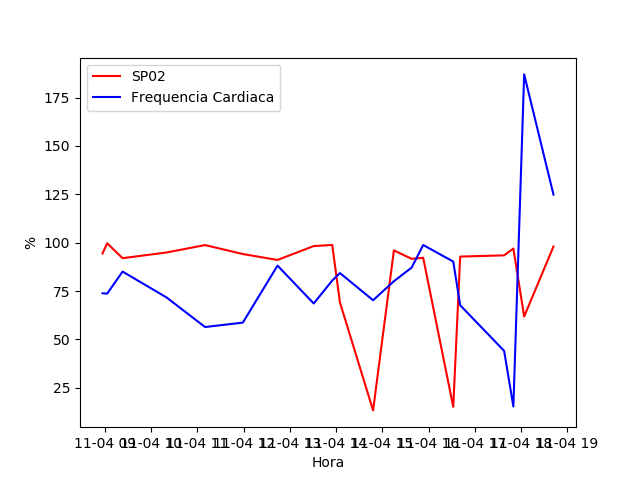
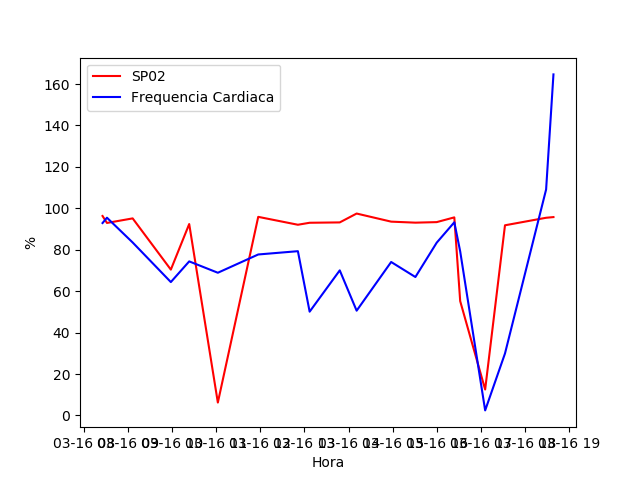
salvando dados da SP02 no banco de dados

diff --git a/utils/SP02.py b/utils/SP02.py
@@ -3,6 +3,7 @@ import random
 from datetime import datetime, timedelta, time
 import matplotlib.pyplot as plt
 import pandas as pd
+import mysql.connector
 
 def FrequenciaCardiaca(qtValores):
     normais = int(qtValores * 0.8)
@@ -20,12 +21,21 @@ def FrequenciaCardiaca(qtValores):
 
 
 def SP02(qtValores, minMinutos, MaxMinutos):
+    database = mysql.connector.connect(host="localhost", user="root", password="", database = "iomt")
+    sql = "INSERT INTO dadoscoletados (usuario, valor1, valor2, dataHora, tipo) VALUES (%s, %s, %s, %s, %s)"
+
     normais = int(qtValores * 0.8)
     anormais = int(qtValores * 0.2)
 
     minutes = 0
     today = datetime.today()
-    date = datetime(today.year, today.month, today.day, 8, 30, 0)
+    mes = random.randint(1, 12)
+    dia = random.randint(1, 30)
+
+    if (mes == 2 and dia >= 28):
+        dia = 28
+
+    date = datetime(today.year, mes, dia, random.randint(6, 10), random.randint(0, 59), 0)
 
     # Gerando os valores normais
     valoresNormais = np.random.uniform(90, 100, normais)
@@ -52,8 +62,17 @@ def SP02(qtValores, minMinutos, MaxMinutos):
 
         dataPlot.append(tuple((dateTime, valores[i], frequenciaCardiaca[i])))
 
-    df = pd.DataFrame(dataPlot, columns=['Data', 'SP02', 'FrequenciaCardiaca'])
+        cursor = database.cursor()
+        val = (4, valores[i], frequenciaCardiaca[i], dateTime, "SP02")
+        cursor.execute(sql, val)
 
+        database.commit()
+        cursor.close()
+
+
+    database.close()
+
+    df = pd.DataFrame(dataPlot, columns=['Data', 'SP02', 'FrequenciaCardiaca'])
     plt.plot(df.Data, df.SP02, label='SP02', color = 'red')
     plt.plot(df.Data, df.FrequenciaCardiaca, label='Frequencia Cardiaca', color = 'blue')
 

diff --git a/utils/TC.py b/utils/TC.py
@@ -12,7 +12,13 @@ def TemperaturaCorporal(qtValores, minMinutos, MaxMinutos):
 
     minutes = 0
     today = datetime.today()
-    date = datetime(today.year, today.month, today.day, random.randint(0, 10), random.randint(0, 59), 0)
+    mes = random.randint(1, 12)
+    dia = random.randint(1, 30)
+
+    if (mes == 2 and dia >= 28):
+        dia = 28
+
+    date = datetime(today.year, mes, dia, random.randint(6, 10), random.randint(0, 59), 0)
 
     # Gerando os valores normais
     valoresNormais = np.random.uniform(36, 37.5, normais)
